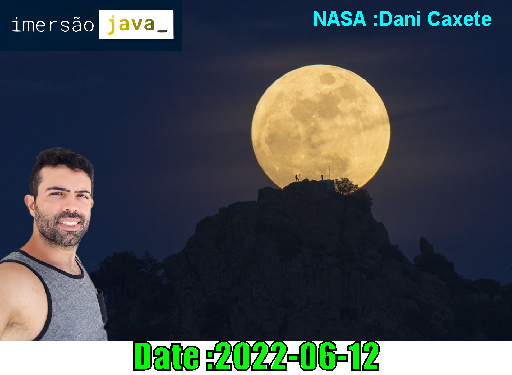
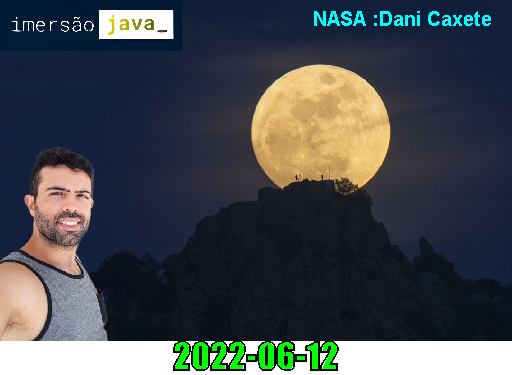
sticker outLine

Changed region(s): [[0.25, 0.9093, 0.75, 0.9973]]

diff --git a/src/App.java b/src/App.java
@@ -15,7 +15,7 @@ public class App {
         Extrator Extractor = new ExtractorNasa();
         List list = Extractor.transform(response);
         stickerGenerator gerador = new stickerGenerator();
-        for (int i = 0; i < 1 ; i++) {
+        for (int i = 0; i < list.size() ; i++) {
             Content conteudo = (Content) list.get(i);
             InputStream urlImage = new URL(conteudo.urlImage()).openStream();            
             gerador.create(urlImage, conteudo.title(), conteudo.font(),  conteudo.description());

diff --git a/src/ExtractorNasa.java b/src/ExtractorNasa.java
@@ -13,7 +13,7 @@ public class ExtractorNasa implements Extrator {
                 .replaceAll(" ", "_");
             String urlImage = item.get("url");            
             String font = "NASA :" + item.get("copyright") ;
-            String  description = "Date :" + item.get("date");
+            String  description = item.get("date");
             var conteudo = new Content(title, urlImage, font, description);
             conteudos.add(conteudo);           
         }

diff --git a/README.md b/README.md
@@ -25,11 +25,9 @@ Saídas: https://github.com/Cleudeir/Java_Aula_03/tree/main/public/output
 
 ![](https://raw.githubusercontent.com/Cleudeir/Java_Aula_03/main/public/output/M51_The_Whirlpool_Galaxy_from_Hubble.png)
 
-![](https://raw.githubusercontent.com/Cleudeir/Java_Aula_03/main/public/output/Fight_Club.png)
+![](https://raw.githubusercontent.com/Cleudeir/Java_Aula_03/main/public/output/Find_the_Man_in_the_Moon.png)
 
-![](https://raw.githubusercontent.com/Cleudeir/Java_Aula_03/main/public/output/Toy_Story_3.png)
-
-![](https://raw.githubusercontent.com/Cleudeir/Java_Aula_03/main/public/output/The_Wizard_of_Oz.png)
+![](https://raw.githubusercontent.com/Cleudeir/Java_Aula_03/main/public/output/Satellites_Behind_Pinnacles.png)
 
 
 ## Imersão Alura Aula Posterior
